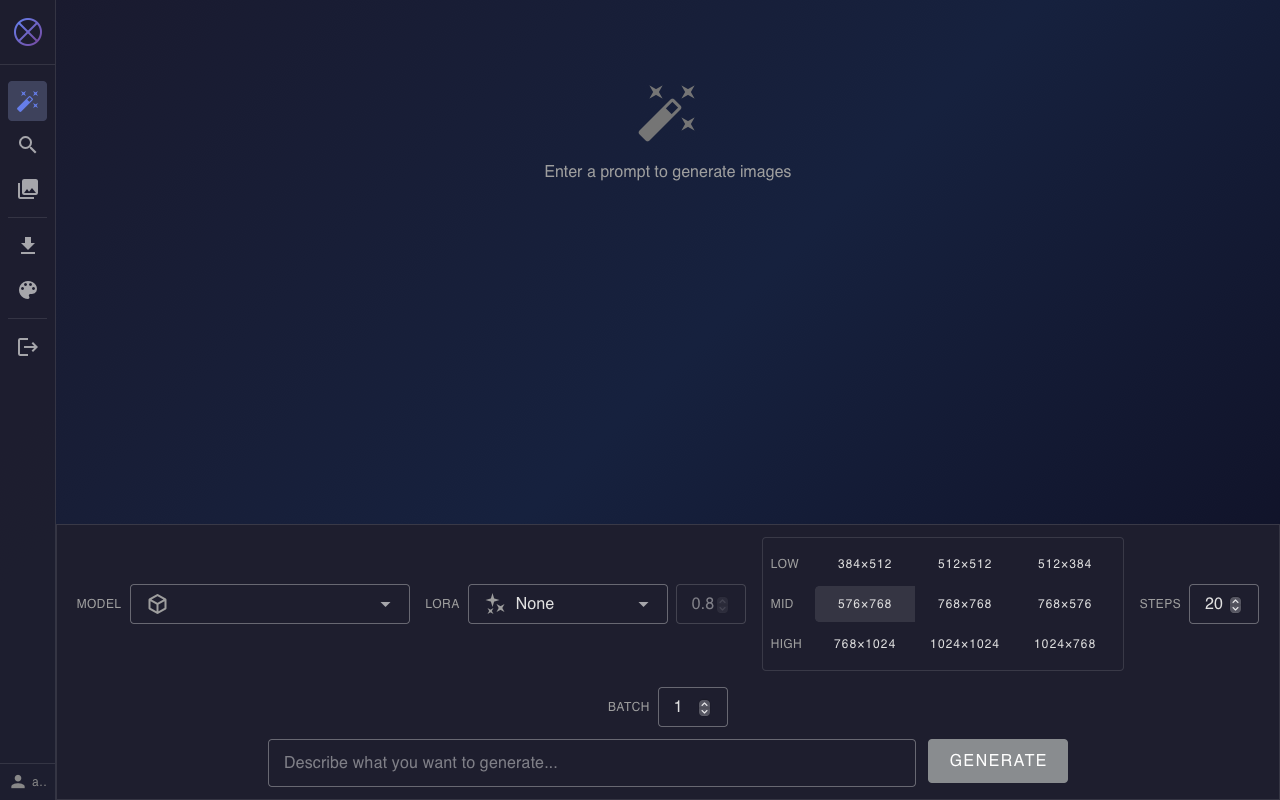
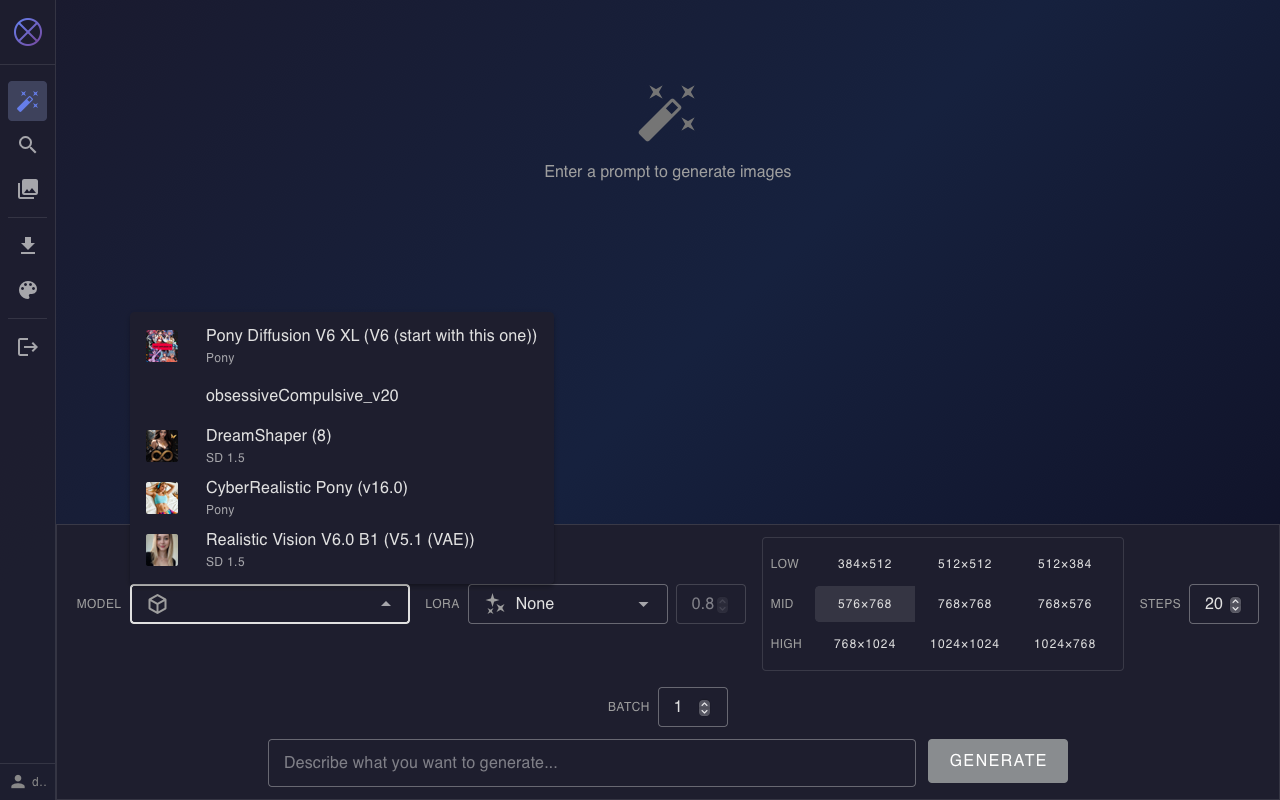
💬 Commit message: Update 2026-02-16 02:38:53, 4 files, 141 lines
📁 Files changed: 4
📝 Lines changed: 141

  • screenshot.png
  • app.ts
  • auth.ts
  • index.ts

diff --git a/src/stores/app.ts b/src/stores/app.ts
@@ -1,7 +1,7 @@
 import { defineStore } from 'pinia'
 import { ref, computed } from 'vue'
 import type { Model, LoRA, ResolutionPreset } from '@/types'
-import { databaseApi, downloadApi } from '@/api/client'
+import { databaseApi, downloadApi, civitaiApi } from '@/api/client'
 
 interface DownloadStatus {
   id: string
@@ -93,16 +93,115 @@ export const useAppStore = defineStore('app', () => {
   const switchError = ref<string | null>(null)
 
   // Actions
+  // Cache for thumbnail URLs fetched from CivitAI
+  const thumbnailCache = new Map<number, string>()
+
+  // Fetch thumbnails from CivitAI API (async, updates models in place)
+  async function loadThumbnails(files: any[]) {
+    const modelIds = [...new Set(files.map(f => f.civitai_model_id).filter(Boolean))]
+
+    for (const modelId of modelIds) {
+      if (thumbnailCache.has(modelId)) {
+        updateThumbnail(modelId, thumbnailCache.get(modelId)!)
+        continue
+      }
+
+      try {
+        const modelInfo = await civitaiApi.getModelApiCivitaiModelModelIdGet({ modelId }) as any
+        const imageUrl = modelInfo?.modelVersions?.[0]?.images?.[0]?.url
+        if (imageUrl) {
+          // Use smaller width for thumbnails
+          const thumbnailUrl = imageUrl.replace('/original=true/', '/width=128/')
+          thumbnailCache.set(modelId, thumbnailUrl)
+          updateThumbnail(modelId, thumbnailUrl)
+        }
+      } catch (e) {
+        console.warn(`Failed to fetch thumbnail for model ${modelId}:`, e)
+      }
+    }
+  }
+
+  // Update thumbnail URL for all models/loras with given civitai_model_id
+  function updateThumbnail(modelId: number, url: string) {
+    models.value = models.value.map(m =>
+      m.civitai_model_id === modelId ? { ...m, thumbnail_url: url } : m
+    )
+    loras.value = loras.value.map(l =>
+      l.civitai_model_id === modelId ? { ...l, thumbnail_url: url } : l
+    )
+  }
+
+  // Helper to format display name
+  function formatDisplayName(f: any): string {
+    if (f.model_name && f.version_name) {
+      return `${f.model_name} (${f.version_name})`
+    }
+    if (f.model_name) return f.model_name
+    if (f.version_name) return f.version_name
+    return f.file_path.split('/').pop()?.replace('.safetensors', '') || 'Unknown'
+  }
+
   async function loadModels() {
     loadingModels.value = true
     try {
-      const [modelsRes, lorasRes] = await Promise.all([
-        databaseApi.searchModelsApiDbModelsGet({ type: 'Checkpoint' }),
-        databaseApi.searchModelsApiDbModelsGet({ type: 'LORA' }),
-      ]) as any[]
-      // API returns array directly, not { items: [...] }
-      models.value = Array.isArray(modelsRes) ? modelsRes : (modelsRes.items || [])
-      loras.value = Array.isArray(lorasRes) ? lorasRes : (lorasRes.items || [])
+      // Fetch local files from the database
+      const files = await databaseApi.listFilesApiDbFilesGet() as any[]
+
+      // Separate checkpoints and LoRAs by path
+      const checkpointFiles = files.filter((f: any) =>
+        f.file_path?.includes('/checkpoints/') || f.file_path?.includes('\\checkpoints\\')
+      )
+      const loraFiles = files.filter((f: any) =>
+        f.file_path?.includes('/loras/') || f.file_path?.includes('\\loras\\')
+      )
+
+      // Dedupe by sha256 (prefer files with metadata)
+      const dedupeByHash = (files: any[]) => {
+        const byHash = new Map<string, any>()
+        for (const f of files) {
+          const existing = byHash.get(f.sha256)
+          // Keep the one with more metadata, or first seen
+          if (!existing || (f.model_name && !existing.model_name)) {
+            byHash.set(f.sha256, f)
+          }
+        }
+        return Array.from(byHash.values())
+      }
+
+      // Map to the Model/LoRA format expected by the UI
+      const dedupedCheckpoints = dedupeByHash(checkpointFiles)
+      const dedupedLoras = dedupeByHash(loraFiles)
+
+      models.value = dedupedCheckpoints.map((f: any) => ({
+        name: f.model_name || f.file_path.split('/').pop()?.replace('.safetensors', '') || 'Unknown',
+        path: f.file_path,
+        filename: f.file_path.split('/').pop() || '',
+        size_mb: 0,
+        modified: 0,
+        category: f.base_model?.includes('XL') || f.base_model?.includes('Pony') ? 'large' : 'sd15',
+        display_name: formatDisplayName(f),
+        base_model: f.base_model,
+        civitai_model_id: f.civitai_model_id,
+        civitai_version_id: f.civitai_version_id,
+        thumbnail_url: undefined, // Will be loaded async
+      }))
+
+      loras.value = dedupedLoras.map((f: any) => ({
+        name: f.model_name || f.file_path.split('/').pop()?.replace('.safetensors', '') || 'Unknown',
+        path: f.file_path,
+        filename: f.file_path.split('/').pop() || '',
+        size_mb: 0,
+        modified: 0,
+        category: f.base_model?.includes('XL') || f.base_model?.includes('Pony') ? 'large' : 'sd15',
+        display_name: formatDisplayName(f),
+        base_model: f.base_model,
+        civitai_model_id: f.civitai_model_id,
+        civitai_version_id: f.civitai_version_id,
+        thumbnail_url: undefined, // Will be loaded async
+      }))
+
+      // Fetch thumbnails async (don't block UI)
+      loadThumbnails([...dedupedCheckpoints, ...dedupedLoras])
     } catch (error) {
       console.error('Failed to load models:', error)
     } finally {

diff --git a/src/stores/auth.ts b/src/stores/auth.ts
@@ -5,6 +5,9 @@ import { ref, computed } from 'vue'
 // Cookie is set on .saiden.dev domain (HttpOnly, shared with tensors-api)
 const AUTH_API = 'https://gw.saiden.dev'
 
+// Localhost dev bypass
+const isLocalhost = window.location.hostname === 'localhost' || window.location.hostname === '127.0.0.1'
+
 export const useAuthStore = defineStore('auth', () => {
   const username = ref<string | null>(null)
   const loading = ref(true)
@@ -22,6 +25,14 @@ export const useAuthStore = defineStore('auth', () => {
   async function init() {
     loading.value = true
     error.value = null
+
+    // Bypass auth for localhost development
+    if (isLocalhost) {
+      console.log('[Auth] Localhost detected, bypassing authentication')
+      username.value = 'dev'
+      loading.value = false
+      return
+    }
 
     try {
       // Call verify endpoint - browser sends cookie automatically
@@ -47,6 +58,10 @@ export const useAuthStore = defineStore('auth', () => {
   // Logout - redirect to clear cookie
   function logout() {
     username.value = null
+    if (isLocalhost) {
+      window.location.reload()
+      return
+    }
     window.location.href = `${AUTH_API}/auth/logout?return_url=${encodeURIComponent(window.location.origin)}`
   }
 

diff --git a/worker/src/index.ts b/worker/src/index.ts
@@ -13,10 +13,13 @@ const COOKIE_DOMAIN = '.saiden.dev'
 // CORS headers - must use specific origin for credentials
 function getCorsHeaders(request: Request) {
   const origin = request.headers.get('Origin') || 'https://tensors.saiden.dev'
-  // Only allow saiden.dev origins
-  const allowedOrigin = origin.endsWith('.saiden.dev') || origin === 'https://saiden.dev'
-    ? origin
-    : 'https://tensors.saiden.dev'
+  // Allow saiden.dev origins and localhost for development
+  const isAllowed = origin.endsWith('.saiden.dev')
+    || origin === 'https://saiden.dev'
+    || origin.startsWith('http://localhost:')
+    || origin.startsWith('http://127.0.0.1:')
+
+  const allowedOrigin = isAllowed ? origin : 'https://tensors.saiden.dev'
 
   return {
     'Access-Control-Allow-Origin': allowedOrigin,
